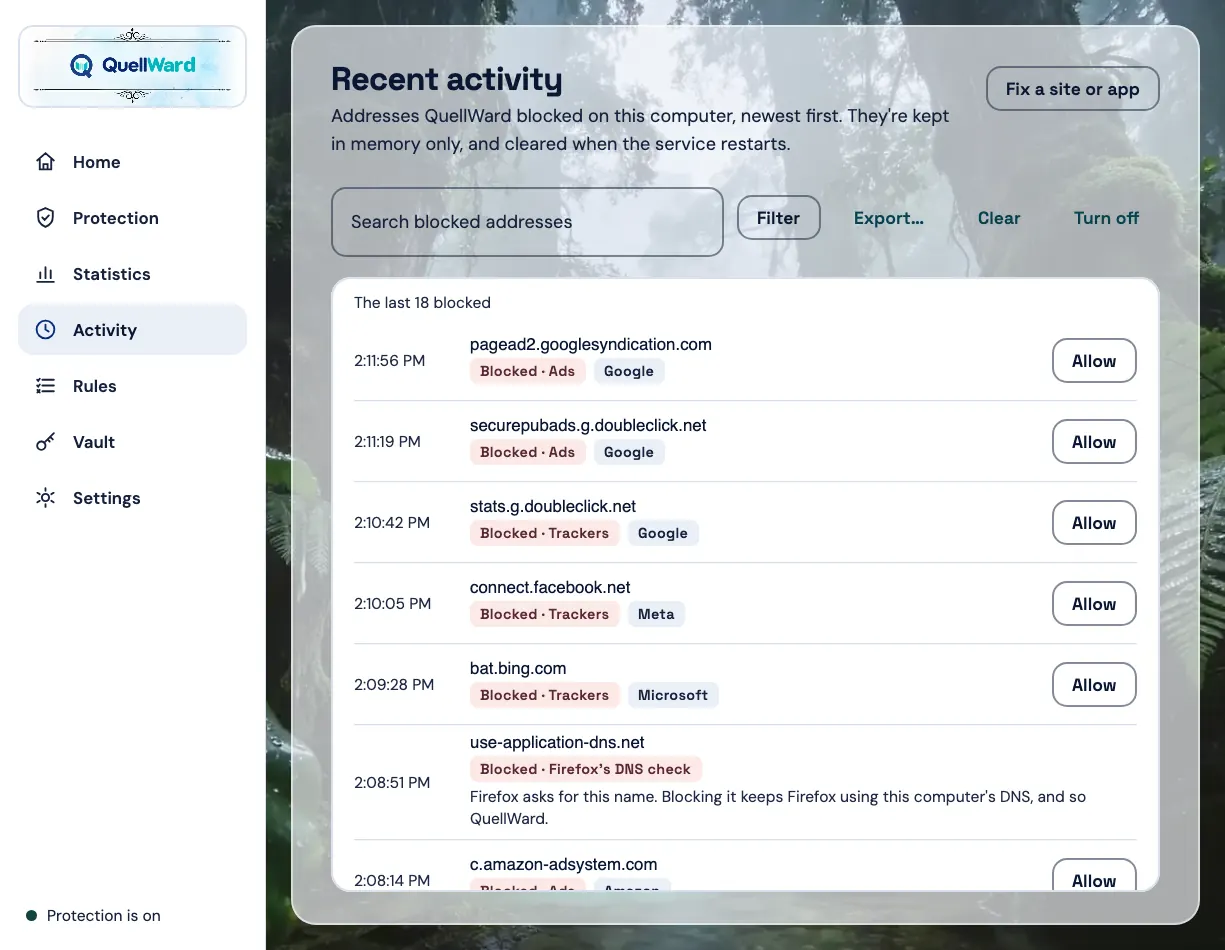
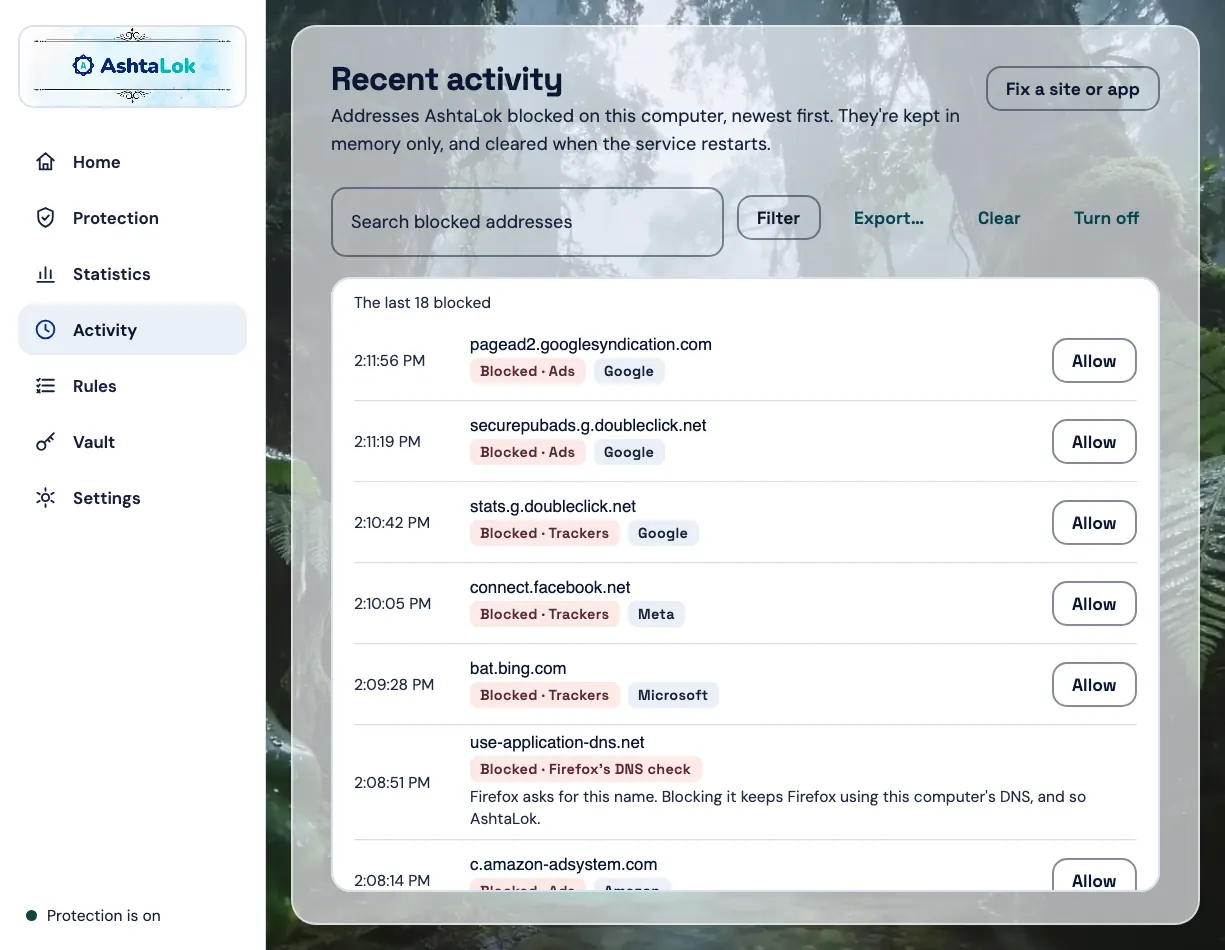
AshtaLok site from QuietWall a0cfb68f: an AshtaLok

Changed region(s): [[0.2792, 0.0916, 0.7755, 0.1832], [0.062, 0.0611, 0.1551, 0.0916], [0.3722, 0.8547, 0.4343, 0.8853]]

diff --git a/android.html b/android.html
@@ -63,7 +63,7 @@
   <figcaption class="wf-foot"><span class="wf-counts"><span class="wf-count"><b data-stopped>0</b>stopped at the wall</span><span class="wf-count ok"><b data-passed>0</b>let through, encrypted</span></span><button type="button" class="wf-toggle" aria-pressed="false">Pause</button></figcaption>
 </figure>
     <div class="facts">
-      <div class="fact reveal"><span class="app-icon ai-green" aria-hidden="true"><svg class="" viewBox="0 0 24 24" fill="none" stroke="currentColor" stroke-width="1.9" stroke-linecap="round" stroke-linejoin="round" aria-hidden="true"><rect x="7" y="2.5" width="10" height="19" rx="2.5"/><path d="M11 18.5h2"/></svg></span><h3 class="d4">A VPN that stays on the phone</h3><p>Android's VPN setting lets it see lookups. Nothing goes to a AshtaLok server; your location doesn't change.</p></div>
+      <div class="fact reveal"><span class="app-icon ai-green" aria-hidden="true"><svg class="" viewBox="0 0 24 24" fill="none" stroke="currentColor" stroke-width="1.9" stroke-linecap="round" stroke-linejoin="round" aria-hidden="true"><rect x="7" y="2.5" width="10" height="19" rx="2.5"/><path d="M11 18.5h2"/></svg></span><h3 class="d4">A VPN that stays on the phone</h3><p>Android's VPN setting lets it see lookups. Nothing goes to an AshtaLok server; your location doesn't change.</p></div>
       <div class="fact reveal" style="--delay:100ms"><span class="app-icon ai-teal" aria-hidden="true"><svg class="" viewBox="0 0 24 24" fill="none" stroke="currentColor" stroke-width="1.9" stroke-linecap="round" stroke-linejoin="round" aria-hidden="true"><rect x="3" y="5" width="18" height="14" rx="2"/><path d="M3 10h18M3 15h18M9 5v5M15 10v5M9 15v4"/></svg></span><h3 class="d4">Ad servers get no answer</h3><p>A name on a block list gets nothing back, so the ad never loads.</p></div>
       <div class="fact reveal" style="--delay:200ms"><span class="app-icon ai-teal" aria-hidden="true"><svg class="" viewBox="0 0 24 24" fill="none" stroke="currentColor" stroke-width="1.9" stroke-linecap="round" stroke-linejoin="round" aria-hidden="true"><rect x="5" y="10" width="14" height="10" rx="2.5"/><path d="M8 10V7a4 4 0 0 1 8 0v3"/><path d="M12 14v2"/></svg></span><h3 class="d4">The rest goes encrypted</h3><p>Over encrypted DNS to Cloudflare or Quad9, switching if one doesn't answer.</p></div>
     </div>
@@ -126,7 +126,7 @@
 <section class="sec" aria-labelledby="faq-title">
   <div class="wrap">
     <div class="head center"><h2 class="d2" id="faq-title">Straight answers.</h2></div>
-    <div class="faq"><details open><summary>Does it block ads in the YouTube app?</summary><p>No. The YouTube app can't be filtered on a phone that isn't rooted. Share a video to AshtaLok's private browser instead, and it plays there without ads.</p></details><details><summary>Is AshtaLok a VPN?</summary><p>It uses Android's VPN setting so it can run on your phone, but your traffic isn't sent to a AshtaLok server and your location doesn't change.</p></details><details><summary>Does it work on mobile data and Wi-Fi?</summary><p>Yes. The filter runs on the phone, so it works the same on both.</p></details><details><summary>Will it break apps?</summary><p>Occasionally. Pause protection, allow that site, or run the guided check to find exactly what to allow.</p></details><details><summary>Does it block every ad?</summary><p>No blocker does. AshtaLok blocks ads and trackers from the servers on its lists and yours, and shows you each block.</p></details><details><summary>Does it block phishing sites?</summary><p>Yes, at every level. AshtaLok blocks the sites on PhishTank&#8217;s list of verified phishing pages, the fake sign-in and payment pages it confirms are still online. Services many people share, such as Google Docs or Dropbox links, are never blocked as a whole. Checked on Android 15 with live phishing sites.</p></details></div>
+    <div class="faq"><details open><summary>Does it block ads in the YouTube app?</summary><p>No. The YouTube app can't be filtered on a phone that isn't rooted. Share a video to AshtaLok's private browser instead, and it plays there without ads.</p></details><details><summary>Is AshtaLok a VPN?</summary><p>It uses Android's VPN setting so it can run on your phone, but your traffic isn't sent to an AshtaLok server and your location doesn't change.</p></details><details><summary>Does it work on mobile data and Wi-Fi?</summary><p>Yes. The filter runs on the phone, so it works the same on both.</p></details><details><summary>Will it break apps?</summary><p>Occasionally. Pause protection, allow that site, or run the guided check to find exactly what to allow.</p></details><details><summary>Does it block every ad?</summary><p>No blocker does. AshtaLok blocks ads and trackers from the servers on its lists and yours, and shows you each block.</p></details><details><summary>Does it block phishing sites?</summary><p>Yes, at every level. AshtaLok blocks the sites on PhishTank&#8217;s list of verified phishing pages, the fake sign-in and payment pages it confirms are still online. Services many people share, such as Google Docs or Dropbox links, are never blocked as a whole. Checked on Android 15 with live phishing sites.</p></details></div>
   </div>
 </section>
 <section class="sec alt closing" aria-labelledby="end-title">

diff --git a/welcome.html b/welcome.html
@@ -57,7 +57,7 @@
     <div class="check">
       <p class="small" id="progress-text" aria-live="polite">0 of 4 steps done</p>
       <div class="check-bar" aria-hidden="true"><div class="check-fill" id="progress-fill"></div></div>
-      <ol id="checklist" style="list-style:none;margin:0;padding:0"><li class="check-item"><input type="checkbox" id="c1"><div><label for="c1">Allow the VPN permission</label><p>Tap Turn on protection, then OK on Android's "Connection request". It decides on your phone; your traffic isn't sent to a AshtaLok server. <a href="help.html#vpn-permission">More about the permission</a></p></div></li><li class="check-item"><input type="checkbox" id="c2"><div><label for="c2">Pick a protection level</label><p>Balanced suits most people. Light breaks least; Strict blocks more. <a href="help.html#protection-levels">Compare the levels</a></p></div></li><li class="check-item"><input type="checkbox" id="c3"><div><label for="c3">Choose an encrypted DNS provider</label><p>Allowed lookups go encrypted, to the provider you pick. Plain DNS stays off unless you switch it on. <a href="help.html#choose-dns-provider">How to choose</a></p></div></li><li class="check-item"><input type="checkbox" id="c4"><div><label for="c4">Set up the password vault (optional)</label><p>Turn it on as Android's Autofill service. Skip it if you're happy with the one you use. <a href="help.html#set-up-vault">Setting up the vault</a></p></div></li></ol>
+      <ol id="checklist" style="list-style:none;margin:0;padding:0"><li class="check-item"><input type="checkbox" id="c1"><div><label for="c1">Allow the VPN permission</label><p>Tap Turn on protection, then OK on Android's "Connection request". It decides on your phone; your traffic isn't sent to an AshtaLok server. <a href="help.html#vpn-permission">More about the permission</a></p></div></li><li class="check-item"><input type="checkbox" id="c2"><div><label for="c2">Pick a protection level</label><p>Balanced suits most people. Light breaks least; Strict blocks more. <a href="help.html#protection-levels">Compare the levels</a></p></div></li><li class="check-item"><input type="checkbox" id="c3"><div><label for="c3">Choose an encrypted DNS provider</label><p>Allowed lookups go encrypted, to the provider you pick. Plain DNS stays off unless you switch it on. <a href="help.html#choose-dns-provider">How to choose</a></p></div></li><li class="check-item"><input type="checkbox" id="c4"><div><label for="c4">Set up the password vault (optional)</label><p>Turn it on as Android's Autofill service. Skip it if you're happy with the one you use. <a href="help.html#set-up-vault">Setting up the vault</a></p></div></li></ol>
     </div>
   </div>
 </section>

diff --git a/index.html b/index.html
@@ -185,7 +185,7 @@
 <section class="sec" aria-labelledby="faq-title">
   <div class="wrap">
     <div class="head center v2-faq-head"><div class="faq-av" id="faqAv"><img src="assets/mascot/rook-avatar.webp" alt="" width="320" height="320"><div class="bubble" data-hide="true">Ask me anything.</div></div><h2 class="d2" id="faq-title">Straight answers.</h2></div>
-    <div class="faq"><details open><summary>Does AshtaLok block ads in the YouTube app?</summary><p>No. The YouTube app can't be filtered on a phone that isn't rooted, and AshtaLok doesn't claim otherwise. Share a video to AshtaLok's private browser instead, and it plays there without ads.</p></details><details><summary>Is AshtaLok a VPN?</summary><p>It uses Android's VPN setting so it can run on your phone, but it doesn't send your traffic to a AshtaLok server or change your location.</p></details><details><summary>Does it block every ad?</summary><p>No blocker does, and AshtaLok won't claim to. It blocks ads and trackers from the servers on its lists and yours, and shows you each block.</p></details><details><summary>When can I get it?</summary><p>When testing on each platform is finished. There's no release date yet.</p></details></div>
+    <div class="faq"><details open><summary>Does AshtaLok block ads in the YouTube app?</summary><p>No. The YouTube app can't be filtered on a phone that isn't rooted, and AshtaLok doesn't claim otherwise. Share a video to AshtaLok's private browser instead, and it plays there without ads.</p></details><details><summary>Is AshtaLok a VPN?</summary><p>It uses Android's VPN setting so it can run on your phone, but it doesn't send your traffic to an AshtaLok server or change your location.</p></details><details><summary>Does it block every ad?</summary><p>No blocker does, and AshtaLok won't claim to. It blocks ads and trackers from the servers on its lists and yours, and shows you each block.</p></details><details><summary>When can I get it?</summary><p>When testing on each platform is finished. There's no release date yet.</p></details></div>
   </div>
 </section>
 

diff --git a/blog-why-on-device.html b/blog-why-on-device.html
@@ -59,7 +59,7 @@
           <h2>What “on the device” means in practice</h2>
           <ul>
             <li><b>Blocking decisions</b> are made on your phone, against lists stored on your phone and the rules you wrote.</li>
-            <li><b>Addresses that are allowed</b> still need to be looked up. AshtaLok does that over encrypted DNS, with a provider you choose, the same way your phone would look them up without AshtaLok. Those lookups don't pass through a AshtaLok server.</li>
+            <li><b>Addresses that are allowed</b> still need to be looked up. AshtaLok does that over encrypted DNS, with a provider you choose, the same way your phone would look them up without AshtaLok. Those lookups don't pass through an AshtaLok server.</li>
             <li><b>Recent activity and statistics</b> are kept on the phone, encrypted, so you can see what was blocked and why. You can clear them whenever you like, and there's no copy elsewhere to worry about.</li>
             <li><b>The password manager</b> keeps its vault on the phone too.</li>
           </ul>

diff --git a/help.html b/help.html
@@ -58,7 +58,7 @@
             <details id="vpn-permission" data-keywords="vpn permission setup install connection request key icon">
               <summary>Why AshtaLok asks for the VPN permission</summary>
               <div class="article-body">
-                <p>Android only lets an app see which addresses your apps ask for if it uses the phone's VPN setting. AshtaLok uses that setting to answer those requests <b>on your phone</b>. It is not a VPN service: your traffic isn't sent to a AshtaLok server and your location doesn't change.</p>
+                <p>Android only lets an app see which addresses your apps ask for if it uses the phone's VPN setting. AshtaLok uses that setting to answer those requests <b>on your phone</b>. It is not a VPN service: your traffic isn't sent to an AshtaLok server and your location doesn't change.</p>
                 <ol>
                   <li>Open AshtaLok and tap <b>Turn on protection</b>.</li>
                   <li>Android shows a “Connection request” message. Tap <b>OK</b>.</li>
